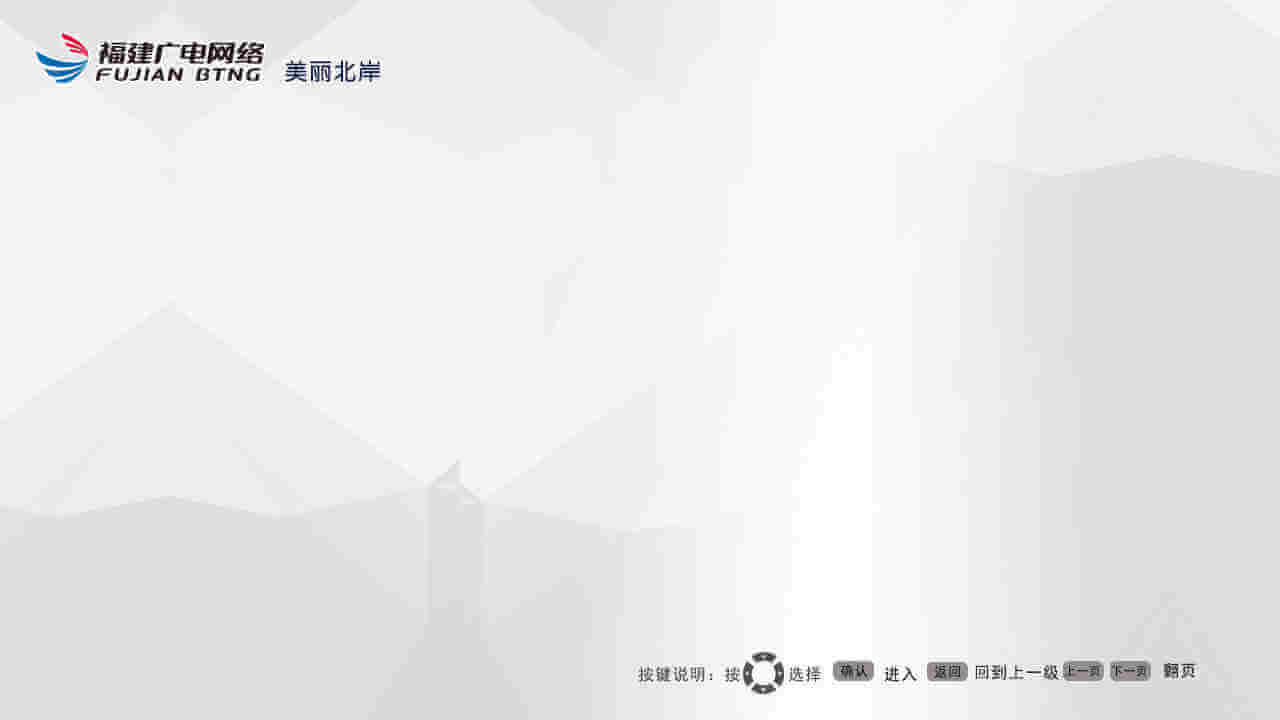
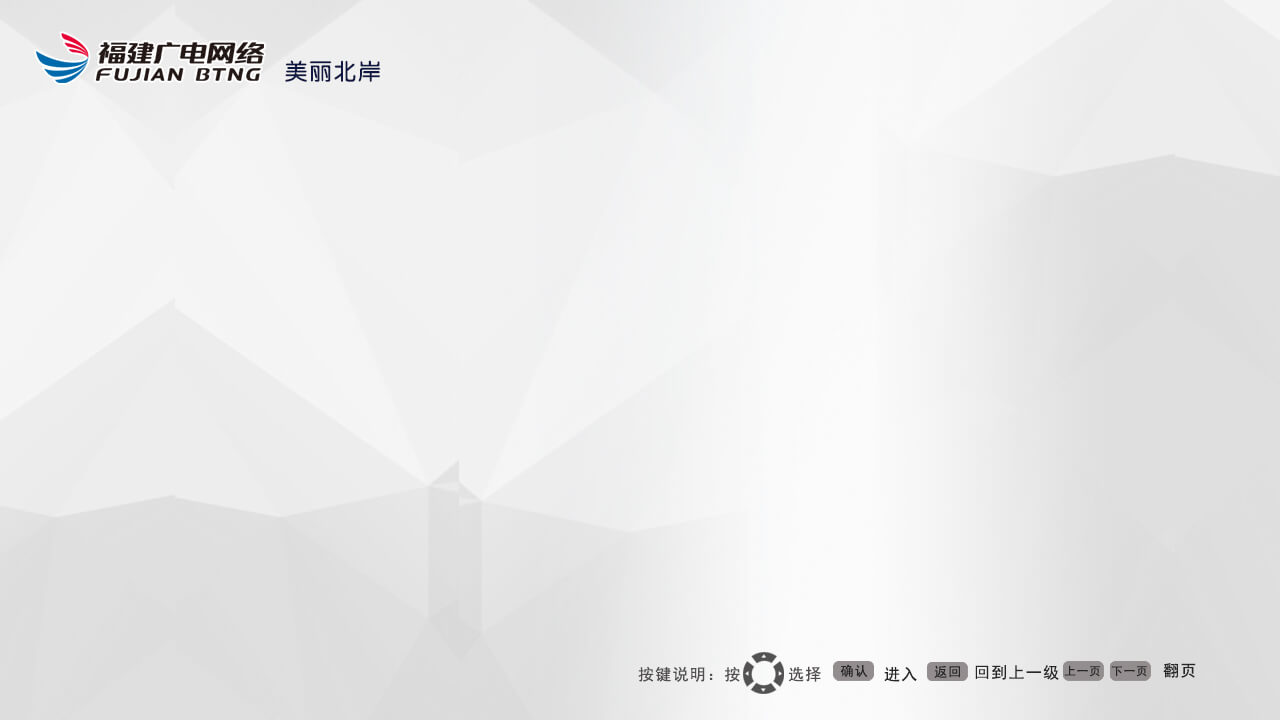
改造智慧港城版块，所有的海报图片从后端读取

Changed region(s): [[0.0312, 0.0306, 0.3125, 0.1222], [0.5, 0.9167, 0.875, 0.9472], [0.9062, 0.9167, 0.9375, 0.9472]]

diff --git a/view/smart.html b/view/smart.html
@@ -29,6 +29,10 @@
 <script type="application/javascript" src="../module/transfer.module.js"></script>
 <script type="application/javascript">
     function MenuComponent() {
+        var i,
+            length,
+            that = this;
+
         MenuModule.call(this);
 
         this.menuPageArray = [{
@@ -39,43 +43,62 @@
                     top: 164,
                     width: 686,
                     height: 453,
-                    bgImageSrc: 'url(../images/smart/1.jpg) no-repeat',
-                    resourceId: cmsConfig.smartResourceIdArray[5].resourceId
+                    bgImageSrc: '',
+                    resourceId: cmsConfig.smartResourceIdArray[5].resourceId,
+                    assertId: ''
                 },
                 {
                     left: 1056,
                     top: 164,
                     width: 181,
                     height: 102,
-                    bgImageSrc: 'url(../images/smart/2.jpg) no-repeat',
-                    resourceId: cmsConfig.smartResourceIdArray[1].resourceId
+                    bgImageSrc: '',
+                    resourceId: cmsConfig.smartResourceIdArray[1].resourceId,
+                    assertId: ''
                 },
                 {
                     left: 1056,
                     top: 282,
                     width: 181,
                     height: 102,
-                    bgImageSrc: 'url(../images/smart/3.jpg) no-repeat',
-                    resourceId: cmsConfig.smartResourceIdArray[2].resourceId
+                    bgImageSrc: '',
+                    resourceId: cmsConfig.smartResourceIdArray[2].resourceId,
+                    assertId: ''
                 },
                 {
                     left: 1056,
                     top: 398,
                     width: 181,
                     height: 102,
-                    bgImageSrc: 'url(../images/smart/4.jpg) no-repeat',
-                    resourceId: cmsConfig.smartResourceIdArray[3].resourceId
+                    bgImageSrc: '',
+                    resourceId: cmsConfig.smartResourceIdArray[3].resourceId,
+                    assertId: ''
                 },
                 {
                     left: 1056,
                     top: 515,
                     width: 181,
                     height: 102,
-                    bgImageSrc: 'url(../images/smart/5.jpg) no-repeat',
-                    resourceId: cmsConfig.smartResourceIdArray[4].resourceId
+                    bgImageSrc: '',
+                    resourceId: cmsConfig.smartResourceIdArray[4].resourceId,
+                    assertId: ''
                 }
             ]
         }];
+
+        cmsApi.getListItems(cmsConfig.smartResourceIdArray[5].resourceId, this.menuPageArray[0].menuItemArray.length, 1, function (response) {
+                if ('1' === response.code || 1 === response.code) {
+//                    document.getElementById('debug-message').innerHTML += '<br/>' + '  dataArray Length ==> ' + response.dataArray.length;
+                    for (i = 0, length = response.dataArray.length; i < length; i++) {
+//                        document.getElementById('debug-message').innerHTML += '<br/>' + '  dataArray assertid ==> ' + response.dataArray[i].assetid;
+//                        document.getElementById('debug-message').innerHTML += '<br/>' + '  dataArray imgUrl ==> ' + cmsConfig.imgUrl + response.dataArray[i].img;
+                        that.menuPageArray[0].menuItemArray[i].assertId = response.dataArray[i].assetid;
+                        that.menuPageArray[0].menuItemArray[i].bgImageSrc = 'url(' + cmsConfig.imgUrl + response.dataArray[i].img + ')';
+                        that.init();
+                    }
+                }
+            }
+        );
     }
 
     function ListComponent() {
@@ -98,7 +121,7 @@
         this.itemMoreTop = 565;
         this.itemMoreWidth = 132;
         this.itemMoreHeight = 32;
-        this.listItemNum = 5;
+        this.listItemNum = 8;
         this.resourceId = cmsConfig.smartResourceIdArray[6].resourceId;
 
         // 方法
@@ -231,7 +254,8 @@
                         params.VIDEO = {
                             backURL: this.backUrl(),
                             focusArea: this.cursor.focusArea,
-                            resourceId: this.cursor.menu.menuItemArray[_num].resourceId
+//                            resourceId: this.cursor.menu.menuItemArray[_num].resourceId,
+                            assertId: this.cursor.menu.menuItemArray[_num].assertId
                         };
                         postfix = this.package(params);
                         window.location.href = 'video.html' + postfix;
@@ -320,7 +344,7 @@
 
         transferComponent.init();
         barComponent.init();
-        menuComponent.init();
+//        menuComponent.init();
         listComponent.init(function () {
             cursorComponent.focusOn();
         });

diff --git a/cms/cms.api.js b/cms/cms.api.js
@@ -12,7 +12,7 @@ var cmsApi = {
         postman.createXmlHttpRequest(
             function (result) {
                 var json = eval('(' + result + ')');
-                //document.getElementById('debug-message').innerHTML += '<br/>' + ' Response:' + result;
+                // document.getElementById('debug-message').innerHTML += '<br/>' + ' Response:' + result;
                 response(json);
             },
             function (err) {

diff --git a/cms/cms.config.js b/cms/cms.config.js
@@ -7,7 +7,7 @@ var cmsConfig = {
     imgUrl: 'http://10.184.255.10:8080/manage/',
     backUrl: '',
     index_back_url: '',
-    //environment: 'DEBUG',
+    // environment: 'DEBUG',
     environment: 'PRODUCT',
 
     /**
